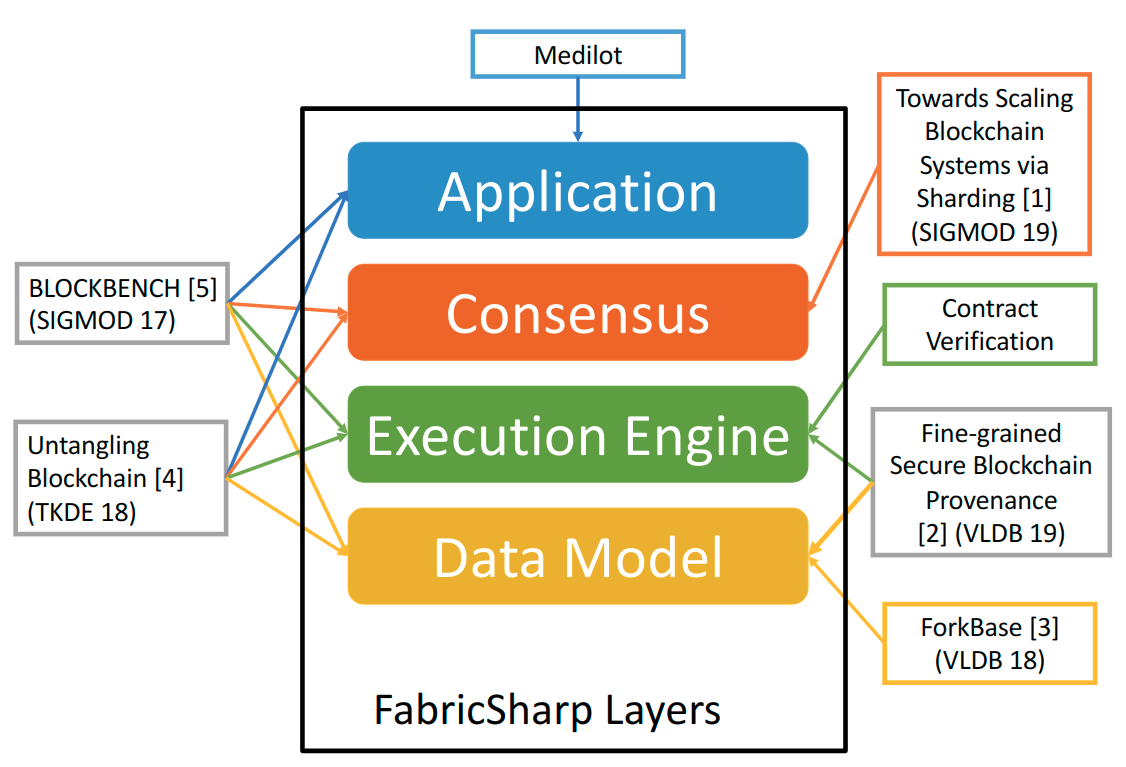
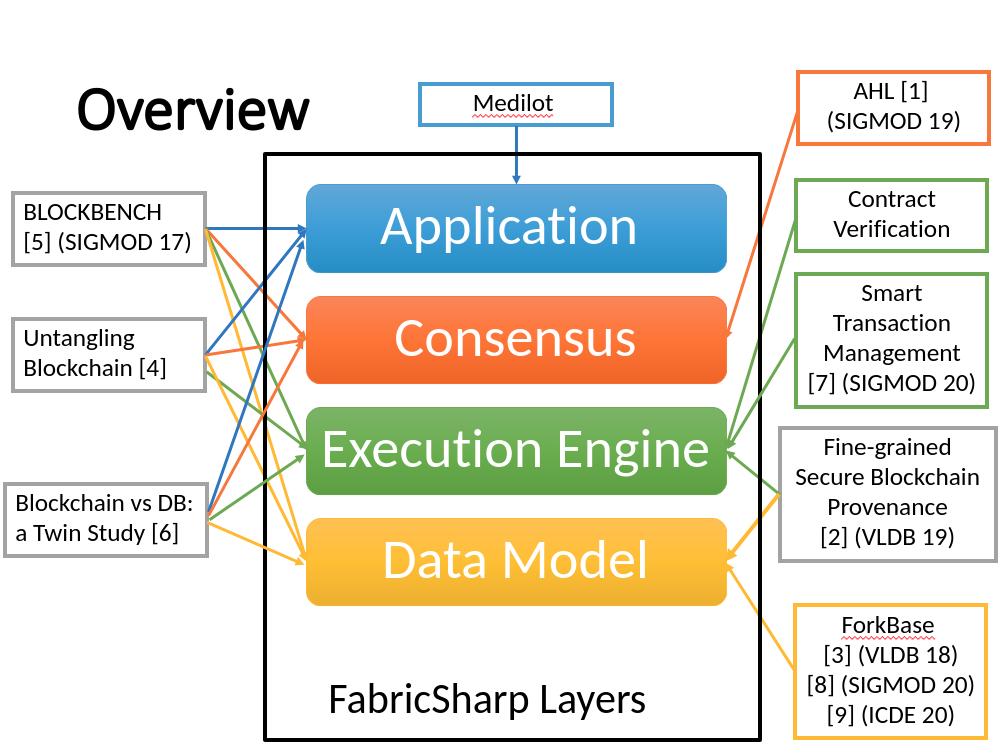
Update readme

diff --git a/README.md b/README.md
@@ -1,6 +1,6 @@
 # Overview
 FabricSharp (hash)  project is a variant of Hyperledger Fabric 1.4, a permissioned blockchain platform from Hyperledger. 
-Compared with the vanilla version, FabricSharp supports fine-grained secure data provenance, sharding, use of
+Compared with the vanilla version, FabricSharp supports fine-grained secure data provenance, sharding, smart transaction management, use of
 trusted hardware (eg. SGX), and a blockchain native storage engine called ForkBase, to boost system performance.
 
 Thanks to colleagues from [MediLOT](https://medilot.com), [NUS](https://www.comp.nus.edu.sg/~dbsystem/index.html), [SUTD](https://istd.sutd.edu.sg/people/faculty/dinh-tien-tuan-anh), [BIT](http://cs.bit.edu.cn/szdw/jsml/js/zmh/index.htm), [Zhejiang University](https://person.zju.edu.cn/0098112), [MZH Technologies](http://www.mzhtechnologies.com/) and other organizations for their contributions.
@@ -14,16 +14,24 @@ make ccenv # Will build an image hyperledger/fabric-ccenv:forkbase
 ```
 DOCKER_DYNAMIC_LINK=true make peer-docker # Will build an image hyperledger/fabric-peer:forkbase
 ```
+
+* Build the orderer docker image
+```
+make orderer-docker
+```
+
 __NOTE__: FabricSharp relies on ForkBase[3] as the storage engine, which is close-sourced.
-Hence FabricSharp can only be built and run within the docker container. Running `make peer` may fail. So far FabricSharp only touches on _peer_ process. Other executables remain intact and other cmds in Makefile should function the same as before. 
+Hence FabricSharp can only be built and run within the docker container. Running `make peer` may fail.  
 __NOTE__: Always start the peer container with the following environment variable to enable for the above-built chaincode environment. `CORE_CHAINCODE_BUILDER=hyperledger/fabric-ccenv:forkbase`
 
 # Architecture
 ![architecture](architecture.png)
 
 # Progress
-The current master branch incorporates the optimization from [2] on the basis of Fabric v1.4.2. 
-We dedicate another branch __vldb19__, which shows more details about [2], including the experimental baseline, scripts, chaincode examples and so on. 
+The current master branch incorporates the optimization from [2] and [7] on the basis of Fabric v1.4.2. 
+We dedicate another branch __vldb19__, which shows more details only about [2], including the experimental baseline, scripts, chaincode examples and so on. 
+Similarly, branch __sigmod20__ is dedicated for [7]. 
+Refer to branch __vldb19__ on how to write provenance-dependent smart contracts, and __sigmod__ for the snapshot-based transaction management. 
 
 We will soon merge the optimization in [1] to this master branch upon v1.4.2 and similarly dedicate another branch for [1]. 
 
